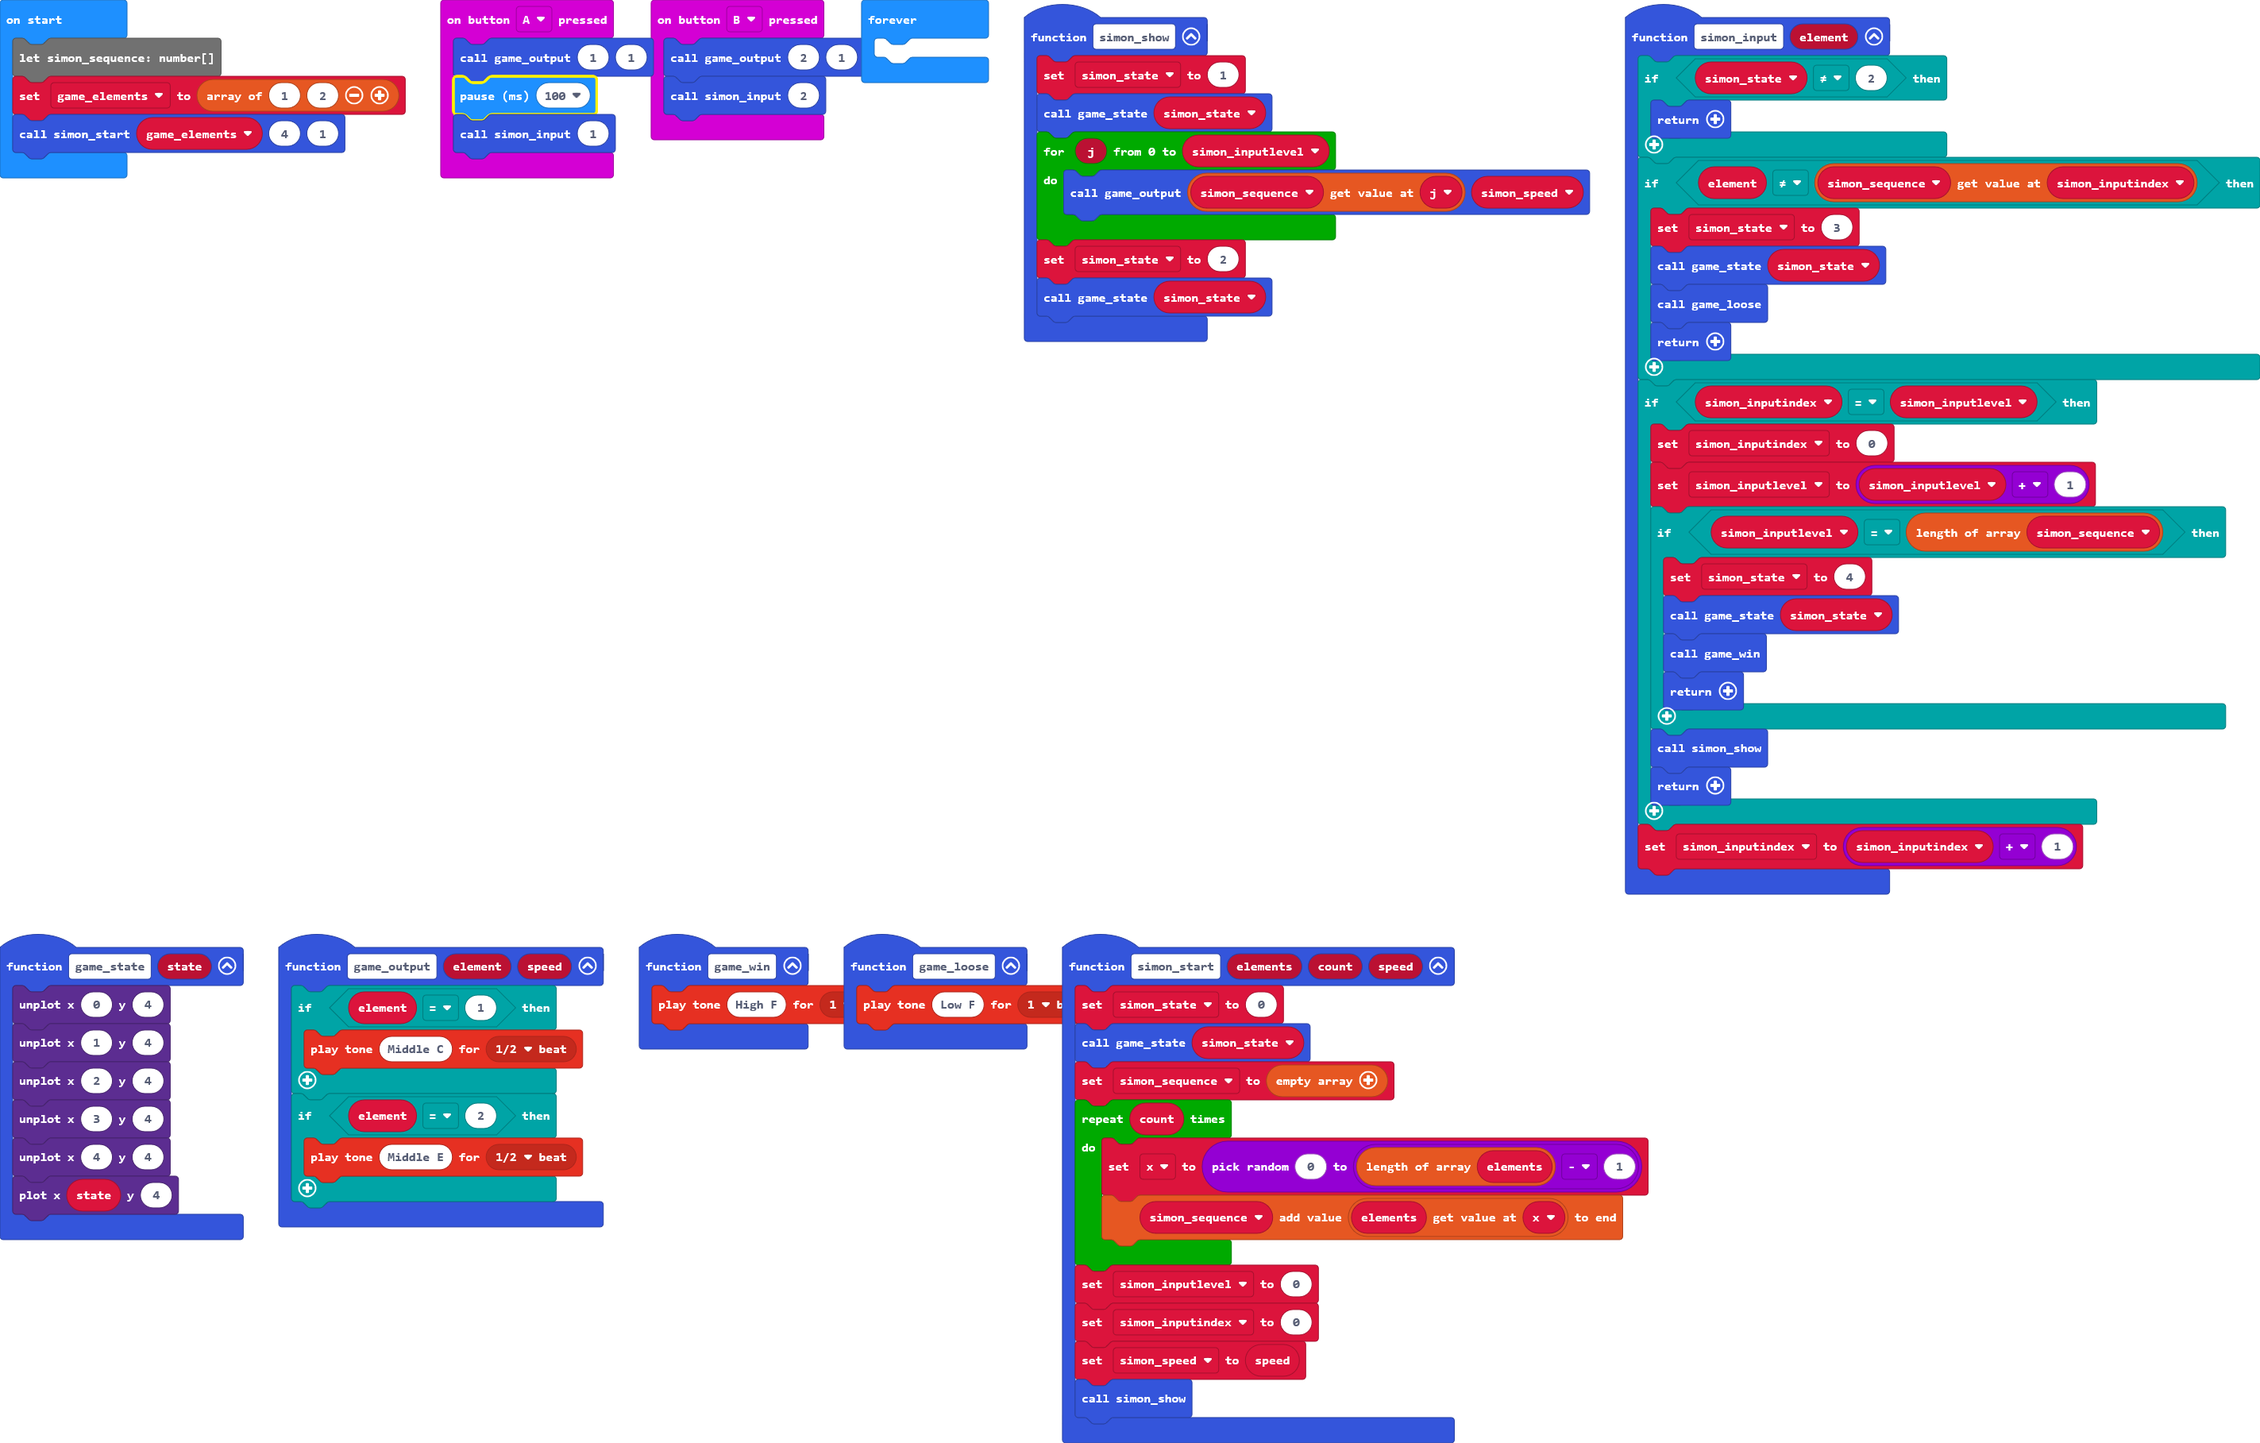
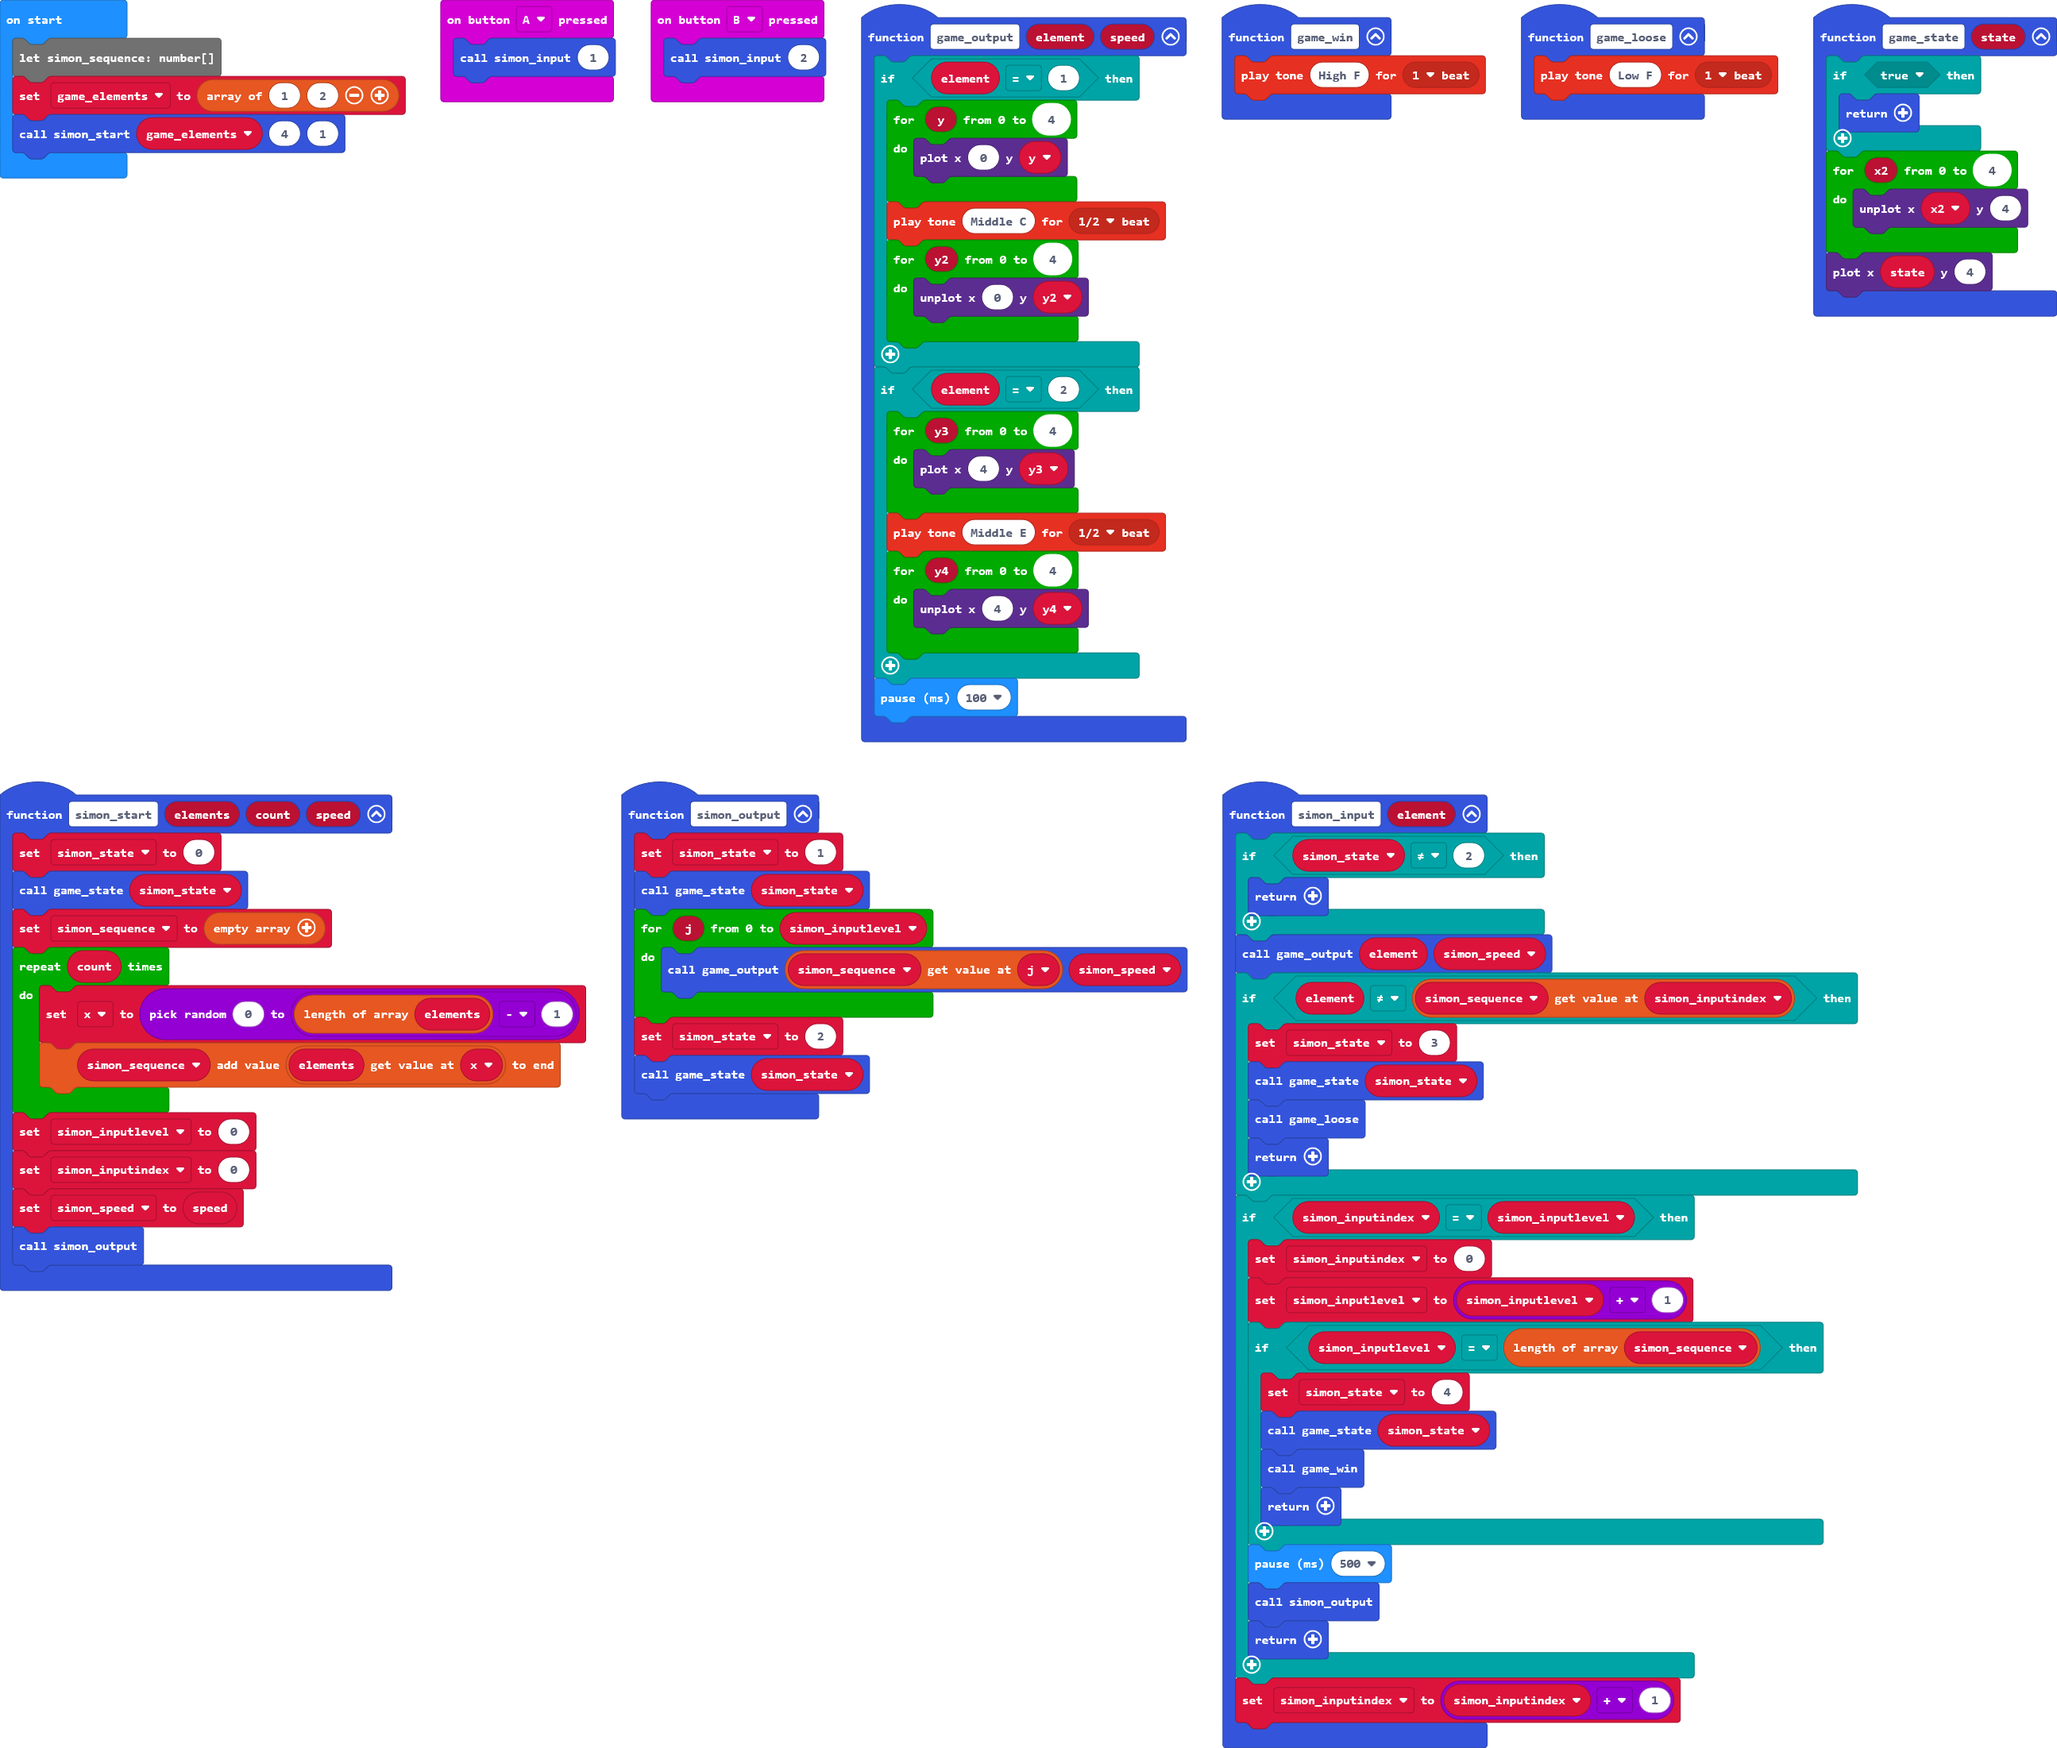
Structural changes

diff --git a/main.ts b/main.ts
@@ -1,8 +1,8 @@
-let simon_state = 0
-let simon_speed = 0
+let simon_state: number
+let simon_speed: number
 let simon_sequence: number[]
-let simon_inputlevel = 0
-let simon_inputindex = 0
+let simon_inputlevel: number
+let simon_inputindex: number
 
 function simon_start(elements: number[], count: number, speed: number) {
     simon_state = 0
@@ -15,10 +15,10 @@ function simon_start(elements: number[], count: number, speed: number) {
     simon_inputlevel = 0
     simon_inputindex = 0
     simon_speed = speed
-    simon_show()
+    simon_output()
 }
 
-function simon_show() {
+function simon_output() {
     simon_state = 1
     game_state(simon_state)
     for (let i = 0; i <= simon_inputlevel; i++) {
@@ -49,7 +49,7 @@ function simon_input(element: number) {
             return
         }
         basic.pause(500)
-        simon_show()
+        simon_output()
         return
     }
     simon_inputindex = simon_inputindex + 1
@@ -57,14 +57,26 @@ function simon_input(element: number) {
 
 
 
+
 function game_state(state: number) {
-    return
-    led.unplot(0, 4)
-    led.unplot(1, 4)
-    led.unplot(2, 4)
-    led.unplot(3, 4)
-    led.unplot(4, 4)
+    if (true)
+        return
+    for (let x = 0; x < 5; x++)
+        led.unplot(x, 4)
     led.plot(state, 4)
+}
+
+function game_start() {
+    let elements = [1, 2]
+    let count = 4
+    let speed = 1
+    input.onButtonPressed(Button.A, function () {
+        simon_input(1)
+    })
+    input.onButtonPressed(Button.B, function () {
+        simon_input(2)
+    })
+    simon_start(elements, count, speed)
 }
 
 function game_output(element: number, speed: number) {
@@ -91,17 +103,5 @@ function game_loose() {
 
 
 
-basic.forever(function () {
 
-})
-
-input.onButtonPressed(Button.A, function () {
-    simon_input(1)
-})
-
-input.onButtonPressed(Button.B, function () {
-    simon_input(2)
-})
-
-let game_elements = [1, 2]
-simon_start(game_elements, 4, 1)
+game_start()
